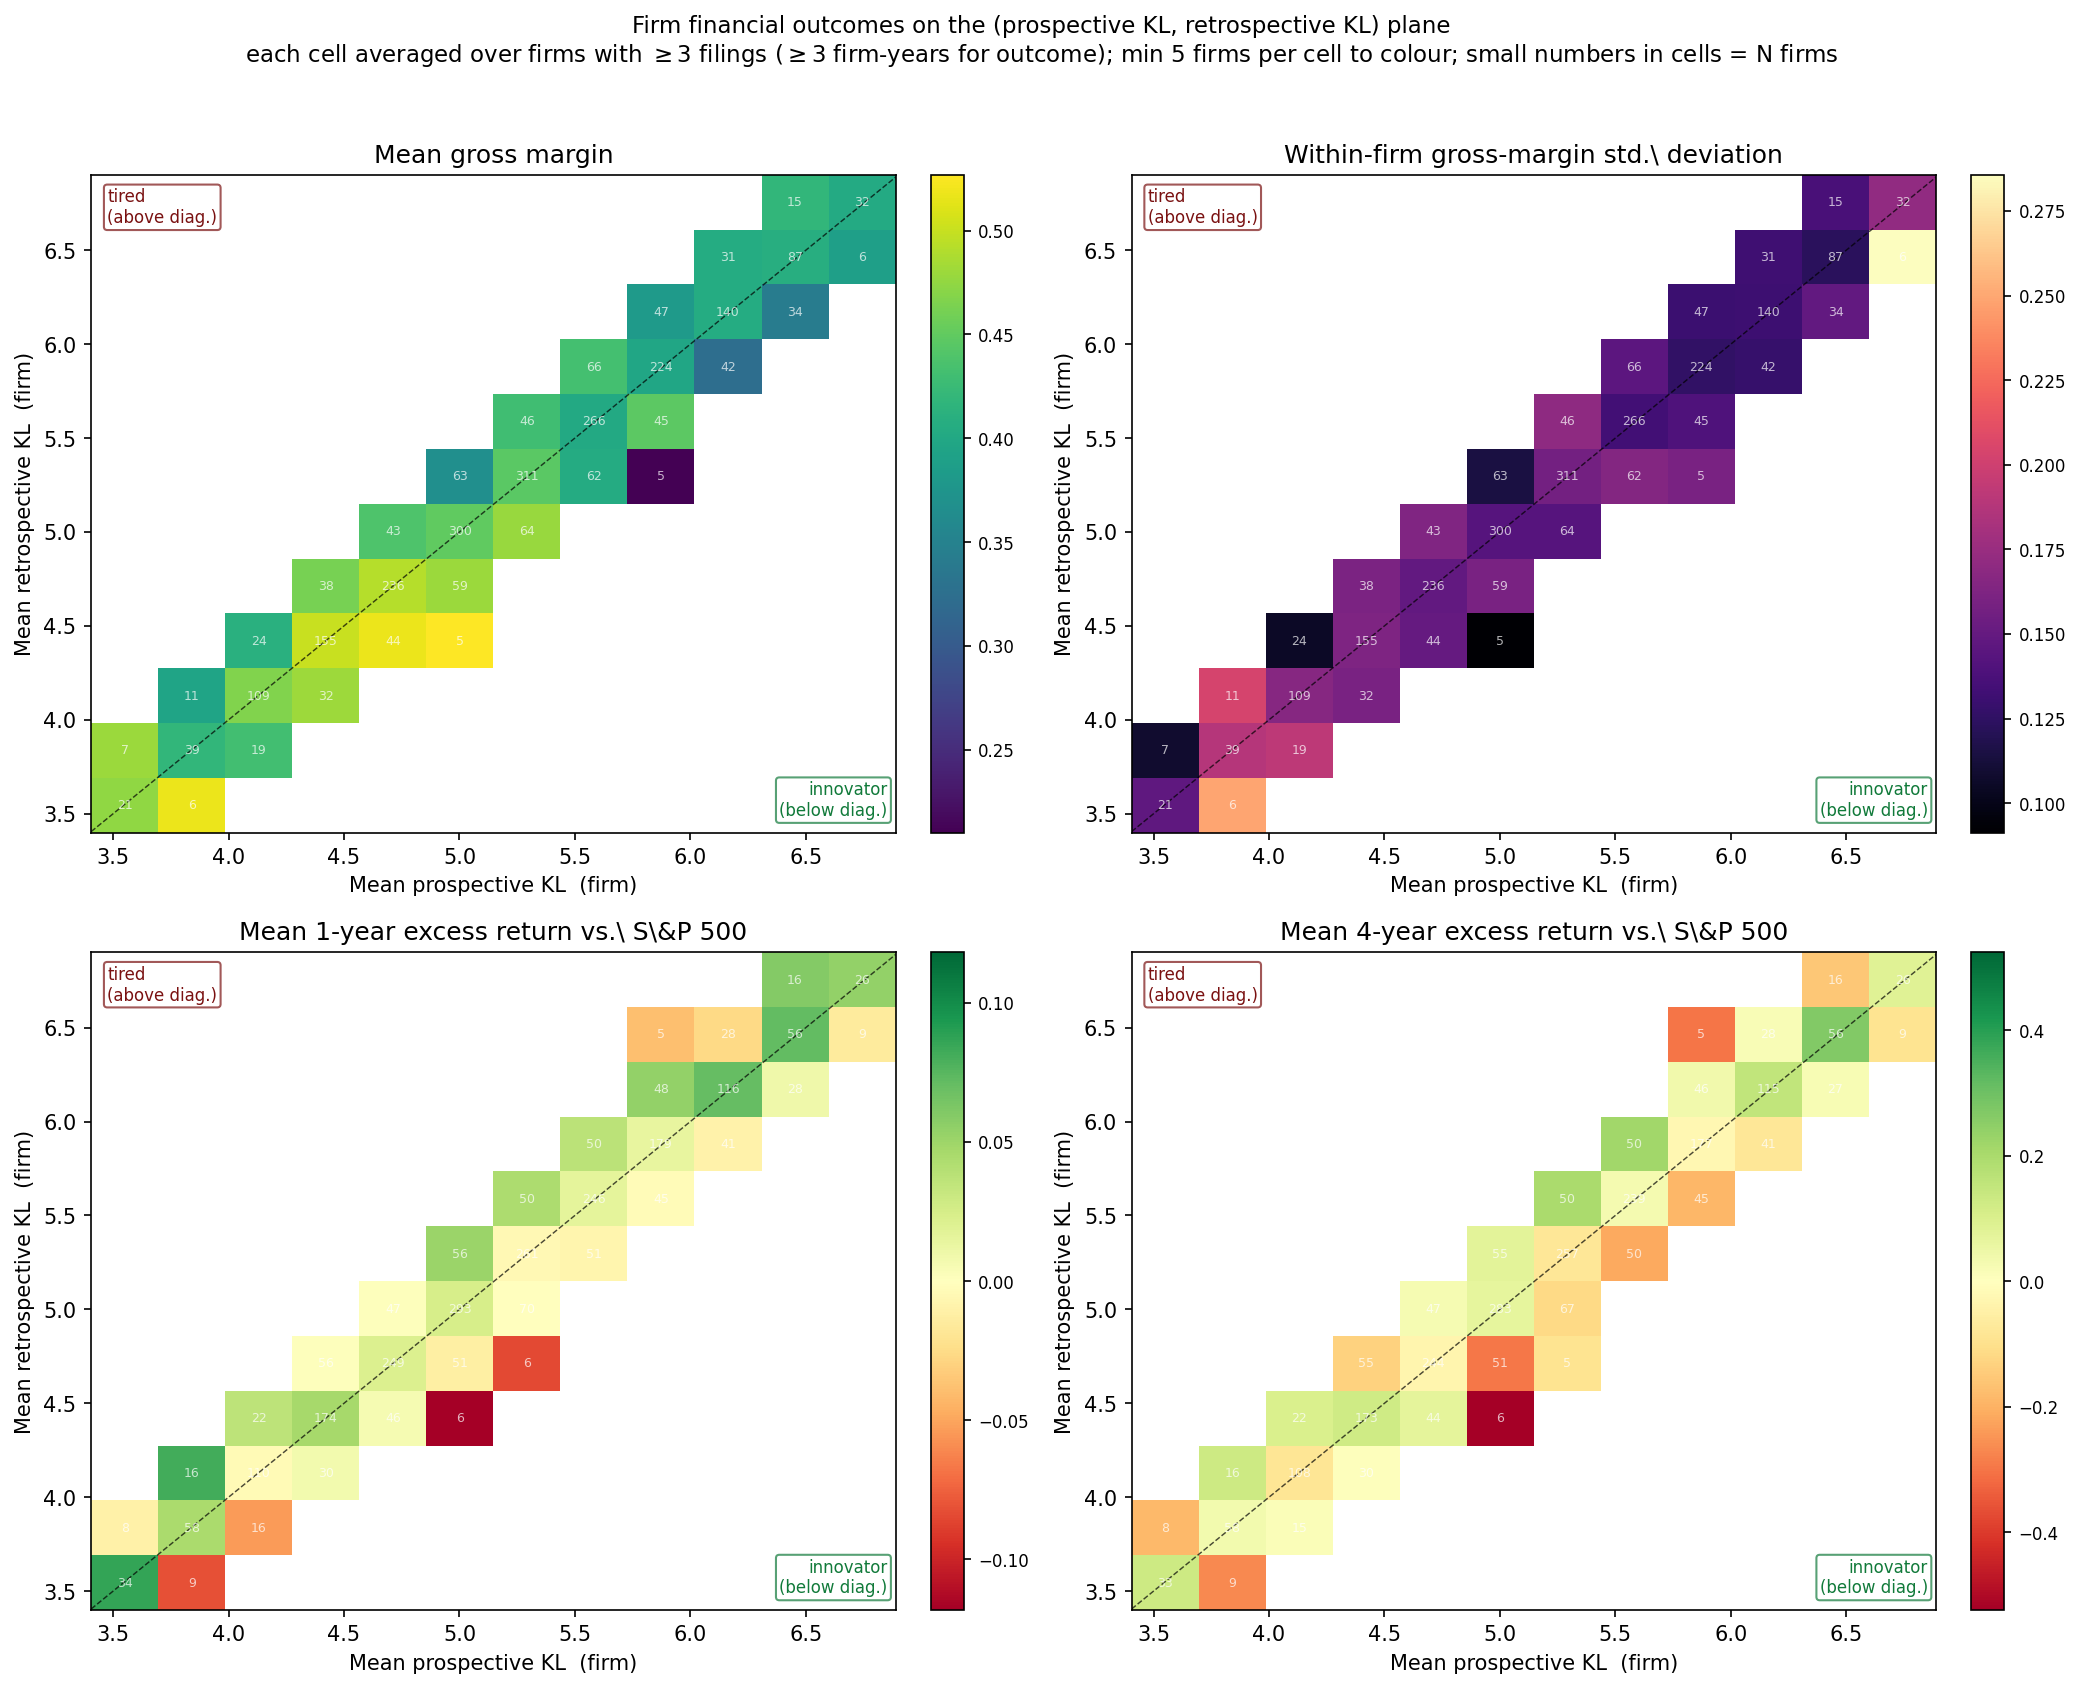
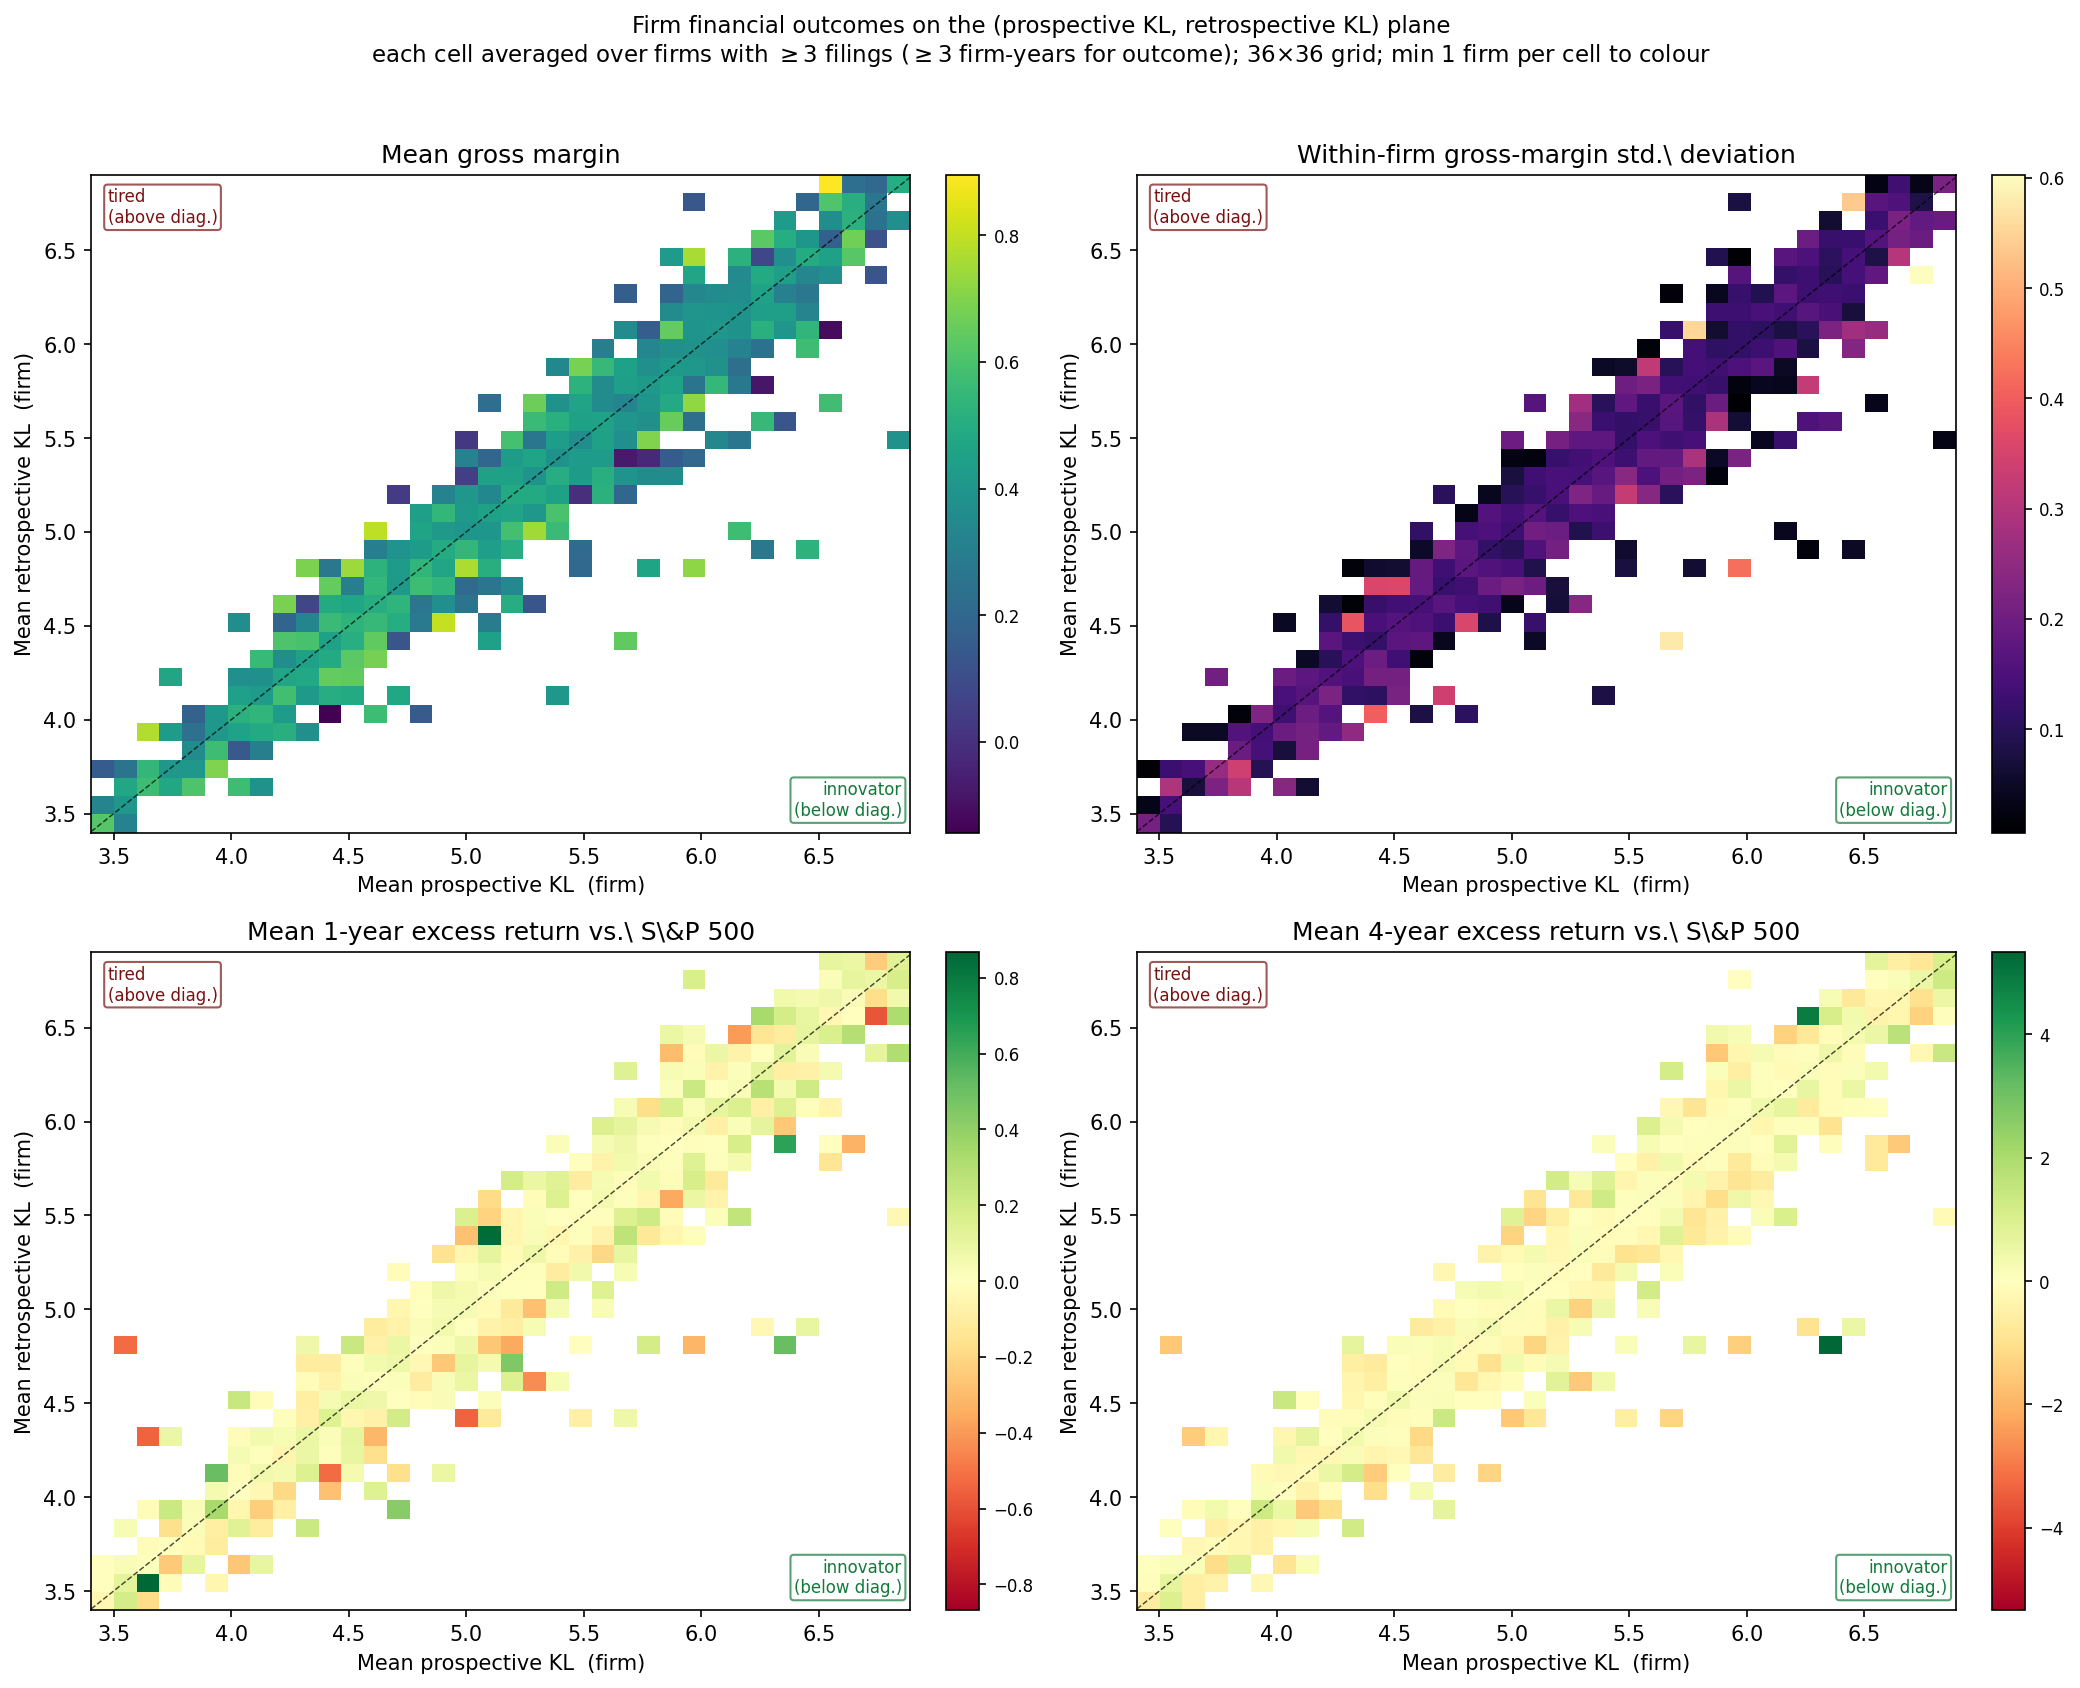
profit_topomap: 36x36 grid, min 1 firm per cell
Increased grid resolution 9x (12x12 -> 36x36) and relaxed the per-cell
minimum from 5 firms to 1 so the off-diagonal sparse regions actually
render. Cell-count annotations removed at this resolution since they
no longer fit; the colormap and diagonal still carry the geography.

diff --git a/scripts/profit_topomap.py b/scripts/profit_topomap.py
@@ -100,11 +100,11 @@ def main() -> int:
     print(f"    with excess 1y return: {panel['mean_excess_1y'].notna().sum():,}")
     print(f"    with excess 4y return: {panel['mean_excess_4y'].notna().sum():,}")
 
-    # 2D bins on (mean_pros, mean_retr)
-    # Use the central range where most firms live
+    # 2D bins on (mean_pros, mean_retr).  9x as many cells as before.
+    # Use the central range where most firms live.
     p_lo, p_hi = panel["mean_pros"].quantile([0.02, 0.98])
     r_lo, r_hi = panel["mean_retr"].quantile([0.02, 0.98])
-    n_bins = 12
+    n_bins = 36
     p_edges = np.linspace(p_lo, p_hi, n_bins + 1)
     r_edges = np.linspace(r_lo, r_hi, n_bins + 1)
     p_centres = 0.5 * (p_edges[:-1] + p_edges[1:])
@@ -115,7 +115,10 @@ def main() -> int:
     panel = panel[(panel["p_bin"] >= 0) & (panel["p_bin"] < n_bins)
                   & (panel["r_bin"] >= 0) & (panel["r_bin"] < n_bins)]
 
-    def heatmap(metric: str, min_n: int = 5):
+    # Min-firm threshold relaxed to 1 so the off-diagonal sparse area
+    # actually renders. Numbers in cells are removed at this resolution
+    # because they no longer fit.
+    def heatmap(metric: str, min_n: int = 1):
         H = np.full((n_bins, n_bins), np.nan)
         N = np.zeros((n_bins, n_bins), dtype=int)
         sub = panel.dropna(subset=[metric])
@@ -153,13 +156,8 @@ def main() -> int:
         diag_hi = min(p_hi, r_hi)
         ax.plot([diag_lo, diag_hi], [diag_lo, diag_hi], color="black",
                 linewidth=0.7, linestyle="--", alpha=0.7)
-        # n labels in each cell where data is shown
-        for i in range(n_bins):
-            for j in range(n_bins):
-                if not np.isnan(H[i, j]) and N[i, j] >= 5:
-                    ax.text(p_centres[j], r_centres[i], f"{N[i,j]}",
-                            ha="center", va="center", fontsize=6,
-                            color="white", alpha=0.7)
+        # cells too small for in-cell text at 36x36; the colormap +
+        # diagonal already convey the geography.
         ax.set_xlabel(r"Mean prospective KL  (firm)")
         ax.set_ylabel(r"Mean retrospective KL  (firm)")
         ax.set_title(title)
@@ -180,7 +178,7 @@ def main() -> int:
     fig.suptitle(
         f"Firm financial outcomes on the (prospective KL, retrospective KL) plane\n"
         f"each cell averaged over firms with $\\geq 3$ filings ($\\geq 3$ firm-years for outcome); "
-        f"min 5 firms per cell to colour; small numbers in cells = N firms",
+        f"36$\\times$36 grid; min 1 firm per cell to colour",
         y=1.02, fontsize=11,
     )
     fig.tight_layout()
